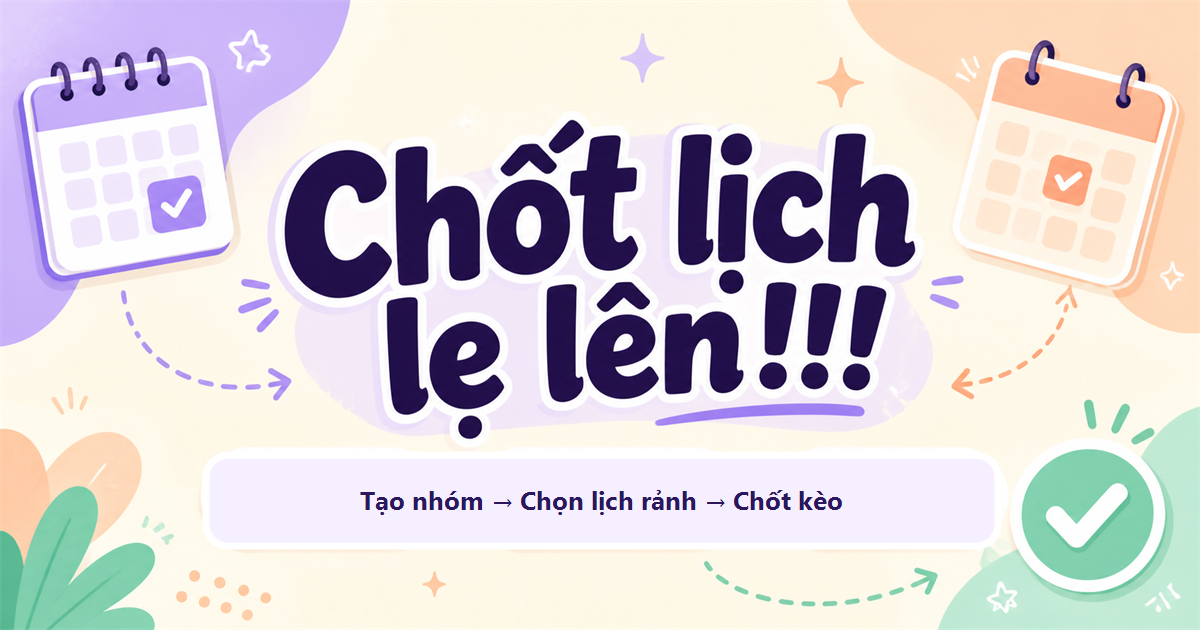
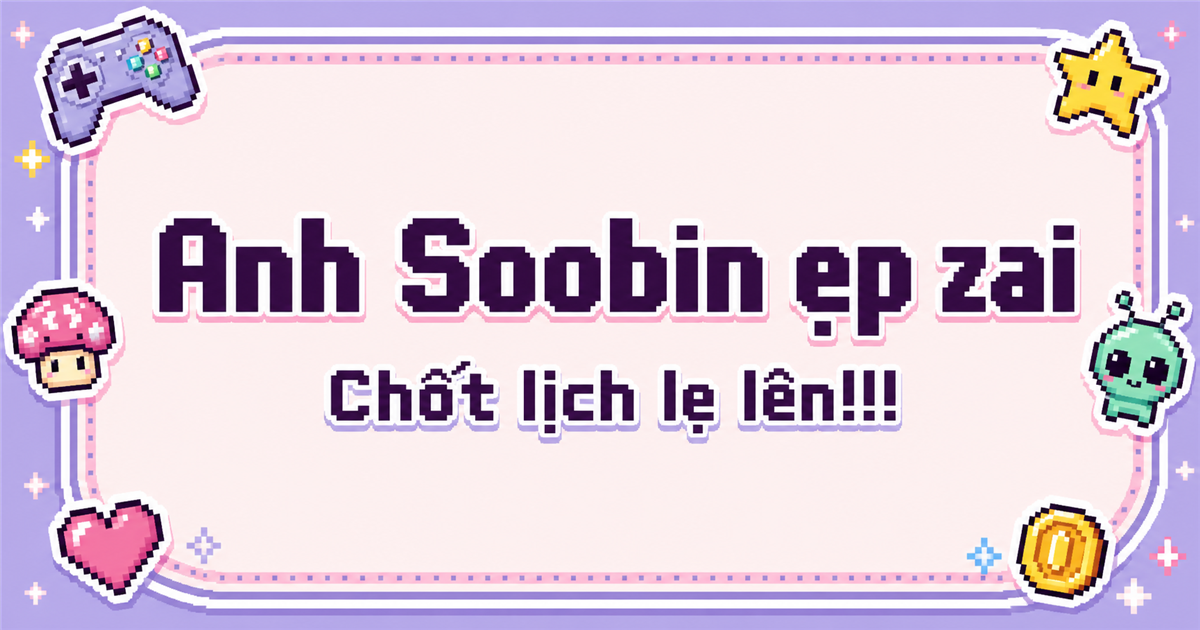
Add playful pixel game styling

diff --git a/app/page.tsx b/app/page.tsx
@@ -14,7 +14,7 @@ export default function Home(){
  const reset=()=>{setMode('home');setGroup(null);setPersonName('');setSelected([]);setNotice('');loadGroups()};
  return <main><nav className="nav"><button className="brand" onClick={reset}><span>♡</span> Hẹn nha!</button><div className="nav-note"><i/>Rảnh lúc nào, chốt lúc đó</div></nav><section className="shell"><header className="page-heading"><h1>Chốt lịch lẹ lên!!!</h1><p><span>1</span> Tạo nhóm <b>→</b><span>2</span> Chọn lịch rảnh <b>→</b><span>3</span> Chờ đủ người <b>→</b><span>4</span> Chốt kèo ✨</p></header><div className="card">
  {mode==='home'&&<><div className="card-head"><span className="icon lavender">☻</span><div><p>BẮT ĐẦU THÔI</p><h2>M là người...</h2></div></div><button className="choice peach" onClick={()=>setMode('create')}><span className="choice-icon">＋</span><div><b>Tạo nhóm mới</b><small>Đặt tên nhóm và số thành viên</small></div><strong>›</strong></button><div className="or"><span/>hoặc<span/></div><button className="choice mint" onClick={()=>{setMode('join');loadGroups()}}><span className="choice-icon">⌁</span><div><b>Tham gia nhóm</b><small>Chọn nhóm đã có trong danh sách</small></div><strong>›</strong></button><p className="privacy">♧ Không cần tài khoản · Ai cũng vào được</p></>}
- {mode==='create'&&<form onSubmit={createGroup}><Back onClick={()=>setMode('home')}/><div className="card-head"><span className="icon peach-bg">＋</span><div><p>TẠO CUỘC HẸN</p><h2>Nhóm m tên gì?</h2></div></div><label>Tên nhóm<input autoFocus required maxLength={40} placeholder="Ví dụ: Team đi Đà Lạt" value={groupName} onChange={e=>setGroupName(e.target.value)}/></label><label>Số thành viên<div className="counter"><button type="button" onClick={()=>setMemberCount(Math.max(2,memberCount-1))}>−</button><b>{memberCount}</b><button type="button" onClick={()=>setMemberCount(Math.min(20,memberCount+1))}>＋</button></div></label><label>Tên của m<input required maxLength={30} placeholder="M tên gì?" value={personName} onChange={e=>setPersonName(e.target.value)}/></label>{notice&&<p className="notice">{notice}</p>}<button className="primary" disabled={loading}>{loading?'Đang tạo...':'Tạo nhóm & chọn lịch →'}</button></form>}
+ {mode==='create'&&<form onSubmit={createGroup}><Back onClick={()=>setMode('home')}/><div className="card-head"><span className="icon peach-bg">＋</span><div><p>TẠO CUỘC HẸN</p><h2>Nhóm m tên gì?</h2></div></div><label>Tên nhóm<input autoFocus required maxLength={40} placeholder="Ví dụ: Lan Anh và những người bạn" value={groupName} onChange={e=>setGroupName(e.target.value)}/></label><label>Số thành viên<div className="counter"><button type="button" onClick={()=>setMemberCount(Math.max(2,memberCount-1))}>−</button><b>{memberCount}</b><button type="button" onClick={()=>setMemberCount(Math.min(20,memberCount+1))}>＋</button></div></label><label>Tên của m<input required maxLength={30} placeholder="M tên gì?" value={personName} onChange={e=>setPersonName(e.target.value)}/></label>{notice&&<p className="notice">{notice}</p>}<button className="primary" disabled={loading}>{loading?'Đang tạo...':'Tạo nhóm & chọn lịch →'}</button></form>}
  {mode==='join'&&<form onSubmit={joinGroup}><Back onClick={()=>setMode('home')}/><div className="card-head"><span className="icon mint-bg">⌁</span><div><p>THAM GIA CUỘC HẸN</p><h2>Chọn nhóm của m</h2></div></div><label>Nhóm đang mở<select required value={selectedGroupId} onChange={e=>setSelectedGroupId(e.target.value)}><option value="">— Chọn một nhóm —</option>{groups.filter(g=>g.status==='open').map(g=><option key={g.id} value={g.id}>{g.name} · {g.submittedCount}/{g.memberCount} người</option>)}</select></label>{!groups.some(g=>g.status==='open')&&<p className="empty">Chưa có nhóm nào đang mở. M tạo nhóm mới đi!</p>}<label>Tên của m<input required maxLength={30} placeholder="M tên gì?" value={personName} onChange={e=>setPersonName(e.target.value)}/></label>{notice&&<p className="notice">{notice}</p>}<button className="primary">Tiếp tục chọn lịch →</button></form>}
  {mode==='schedule'&&group&&<><Back onClick={reset}/><div className="schedule-title"><div><p>NHÓM</p><h2>{group.name}</h2></div><span>{group.submittedCount}/{group.memberCount} người đã chọn</span></div><p className="hint">Ê <b>{personName}</b>! Chạm hết mấy khung giờ m rảnh đi.</p><div className="calendar"><div className="time-label">Giờ</div>{days.map(d=><div className="day" key={d.key}><small>{d.weekday}</small><b>{d.day}</b><small>thg {d.month}</small></div>)}{TIMES.flatMap(time=>[<div className="time" key={time}>{time}</div>,...days.map(d=>{const slot=`${d.key}T${time}`;return <button type="button" aria-label={`${d.key} ${time}`} key={slot} onClick={()=>toggleSlot(slot)} className={selected.includes(slot)?'slot selected':'slot'}>{selected.includes(slot)?'✓':''}</button>})])}</div>{notice&&<p className="notice">{notice}</p>}<div className="submit-row"><span>Đã chọn <b>{selected.length}</b> khung giờ</span><button className="primary compact" disabled={loading} onClick={submitAvailability}>{loading?'Đang lưu...':'Xong, lưu lịch →'}</button></div></>}
  {mode==='result'&&group&&<><Back onClick={reset}/><div className="result-icon">{group.status==='finalized'?'🎉':'✓'}</div><p className="result-kicker">{group.status==='finalized'?'CHỐT KÈO THÀNH CÔNG':'ĐÃ LƯU LỊCH CỦA M'}</p><h2 className="result-title">{group.name}</h2>{group.status==='finalized'?<><p className="result-copy">Tất cả đã trả lời! Khung giờ hợp nhau nhất là:</p><div className="final-slots">{group.finalSlots.length?group.finalSlots.map(s=><div key={s}><b>{new Date(s).toLocaleDateString('vi-VN',{weekday:'long',day:'numeric',month:'long'})}</b><span>{s.slice(11,16)}</span></div>):<p>Chưa có khung giờ nào tất cả cùng rảnh. Cả nhóm thử trao đổi thêm nhé.</p>}</div></>:<><p className="result-copy">Còn <b>{group.memberCount-group.submittedCount} người</b> nữa. Khi đủ thành viên, lịch chung sẽ tự động được chốt.</p><div className="progress"><i style={{width:`${group.submittedCount/group.memberCount*100}%`}}/></div><small className="waiting">{group.submittedCount}/{group.memberCount} người đã hoàn thành</small></>}<button className="secondary" onClick={reset}>Về trang chính</button></>}

diff --git a/app/globals.css b/app/globals.css
@@ -6,3 +6,6 @@
 
 body{font-family:"Be Vietnam Pro","Segoe UI",Arial,sans-serif}.shell{max-width:620px;display:flex;flex-direction:column;gap:26px;padding-top:48px}.page-heading{text-align:center}.page-heading h1{margin:0;color:#49435f;font-size:clamp(34px,6vw,50px);line-height:1.1;letter-spacing:-.055em;font-weight:900}.page-heading p{display:flex;align-items:center;justify-content:center;flex-wrap:wrap;gap:8px;margin:17px 0 0;color:#777182;font-size:12px;line-height:1.7}.page-heading p span{display:inline-grid;place-items:center;width:24px;height:24px;border-radius:50%;background:white;border:1px solid var(--line);color:#766aa8;font-size:10px;font-weight:900}.page-heading p b{color:#b8afc2;font-weight:500}.card{width:100%}
 @media(max-width:820px){.shell{padding-top:32px}.page-heading h1{font-size:35px}.page-heading p{max-width:390px;margin:15px auto 0}.card{margin-top:2px}}
+
+body{overflow-x:hidden;background-color:#fff9ed;background-image:linear-gradient(#dcd4f033 1px,transparent 1px),linear-gradient(90deg,#dcd4f033 1px,transparent 1px),linear-gradient(135deg,#fffaf4 0%,#fbf8ff 52%,#f4fff9 100%);background-size:22px 22px,22px 22px,100% 100%}.card{border:3px solid #574e80;box-shadow:6px 6px 0 #cfc5ef,12px 12px 0 #ffd3c2;border-radius:10px}.choice,.primary,.secondary,.card input,.card select,.counter{border-radius:6px}.page-heading h1{text-shadow:3px 3px 0 #ffd2c0,-2px -2px 0 #d7f1e3}.nav{border-bottom:3px solid #574e80;box-shadow:0 4px 0 #dcd4f0}.brand span{border-radius:4px;box-shadow:3px 3px 0 #574e80}
+body::before,body::after,main::before,main::after{position:fixed;z-index:20;pointer-events:none;white-space:nowrap;font-size:24px;line-height:1;filter:drop-shadow(2px 2px 0 #fff) drop-shadow(3px 3px 0 #574e80);image-rendering:pixelated}body::before,body::after{content:"🎮  ⭐  🍄  👾  💖  🕹  ⚡  🪙  🍒  🐣  🎮  ⭐  🍄  👾  💖  🕹  ⚡  🪙  🍒  🐣";left:0;width:max-content;animation:pixel-run-x 18s linear infinite}body::before{top:8px}body::after{bottom:8px;animation-direction:reverse}main::before,main::after{content:"👾  ⭐  🍒  ⚡  🐣  💖  🍄  🪙  🎮  🕹  👾  ⭐";top:0;height:max-content;writing-mode:vertical-rl;animation:pixel-run-y 15s linear infinite}main::before{left:8px}main::after{right:8px;animation-direction:reverse}@keyframes pixel-run-x{from{transform:translateX(-35%)}to{transform:translateX(0)}}@keyframes pixel-run-y{from{transform:translateY(-35%)}to{transform:translateY(0)}}@media(prefers-reduced-motion:reduce){body::before,body::after,main::before,main::after{animation:none}}@media(max-width:720px){body::before,body::after,main::before,main::after{font-size:17px;opacity:.85}.shell{padding-left:32px;padding-right:32px}.card{box-shadow:4px 4px 0 #cfc5ef,8px 8px 0 #ffd3c2}}

diff --git a/app/layout.tsx b/app/layout.tsx
@@ -2,17 +2,17 @@ import type { Metadata } from 'next';
 import './globals.css';
 
 export const metadata: Metadata = {
-  title: 'Chốt lịch lẹ lên!!! — Hẹn nha!',
+  title: 'Anh Soobin ẹp zai',
   description: 'Tạo nhóm, chọn lịch rảnh, chờ đủ người rồi chốt kèo.',
   metadataBase: new URL('https://hen-nha.accounts626891.chatgpt.site'),
   openGraph: {
-    title: 'Chốt lịch lẹ lên!!! — Hẹn nha!',
+    title: 'Anh Soobin ẹp zai',
     description: 'Tạo nhóm, chọn lịch rảnh, chờ đủ người rồi chốt kèo.',
     images: ['/og.png'],
   },
   twitter: {
     card: 'summary_large_image',
-    title: 'Chốt lịch lẹ lên!!! — Hẹn nha!',
+    title: 'Anh Soobin ẹp zai',
     description: 'Tạo nhóm, chọn lịch rảnh, chờ đủ người rồi chốt kèo.',
     images: ['/og.png'],
   },
